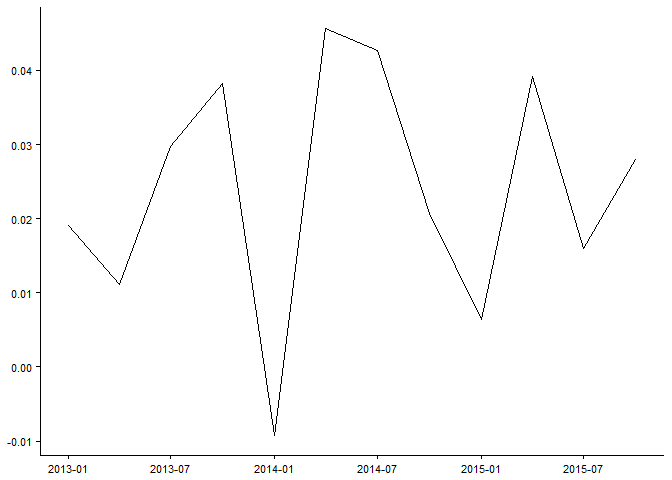
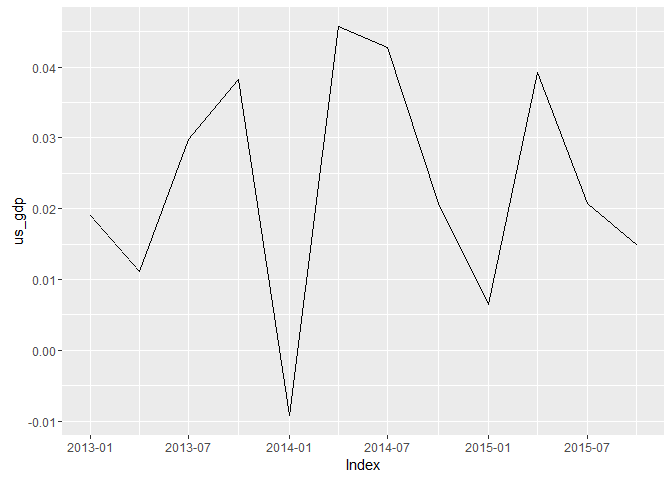
update to use current global macro

diff --git a/scripts/040_load_usmacro.md b/scripts/040_load_usmacro.md
@@ -33,7 +33,15 @@ if (!require(quantmod)) {
   install.packages("quantmod")
   require(quantmod)
 }
+```
 
+```
+## Loading required package: quantmod
+## Loading required package: TTR
+## Version 0.4-0 included new data defaults. See ?getSymbols.
+```
+
+```r
 fpath <- c("~/Project/R projects/lodfor/")
 
 # when kniting from the button, I either needed the full path or to add "../" 
@@ -41,7 +49,7 @@ fpath <- c("~/Project/R projects/lodfor/")
 #load(paste(fpath, "output_data/ushist_m.Rdata", sep=""))
 
 
-fname <- c("../input_data/LODFOR_OEF_USMACRO_2015_10_15.csv")
+fname <- c("../input_data/LODFOR_OEF_USMACRO_2015_12_14.csv")
 # the check.names piece fixes the issueof the column names coming in with
 # quotes and spaces due to the Oxford file format that is visible when 
 # you open the csv file in notepad
@@ -123,11 +131,23 @@ oe_usmac_q <- window(oe_usmac_q, end = end_date)
 ## 2014-10-01 4037.85  0.020720671
 ## 2015-01-01 4044.32  0.006424773
 ## 2015-04-01 4083.40  0.039215590
-## 2015-07-01 4099.66  0.016023293
-## 2015-10-01 4128.05  0.027988919
+## 2015-07-01 4104.45  0.020780065
+## 2015-10-01 4119.60  0.014846410
 ```
 
 ###Load FRED data
+
+```
+##     As of 0.4-0, 'getSymbols' uses env=parent.frame() and
+##  auto.assign=TRUE by default.
+## 
+##  This  behavior  will be  phased out in 0.5-0  when the call  will
+##  default to use auto.assign=FALSE. getOption("getSymbols.env") and 
+##  getOptions("getSymbols.auto.assign") are now checked for alternate defaults
+## 
+##  This message is shown once per session and may be disabled by setting 
+##  options("getSymbols.warning4.0"=FALSE). See ?getSymbols for more details.
+```
 
 ```
 ## Warning in download.file(url, destfile, method, quiet, mode, cacheOK,
